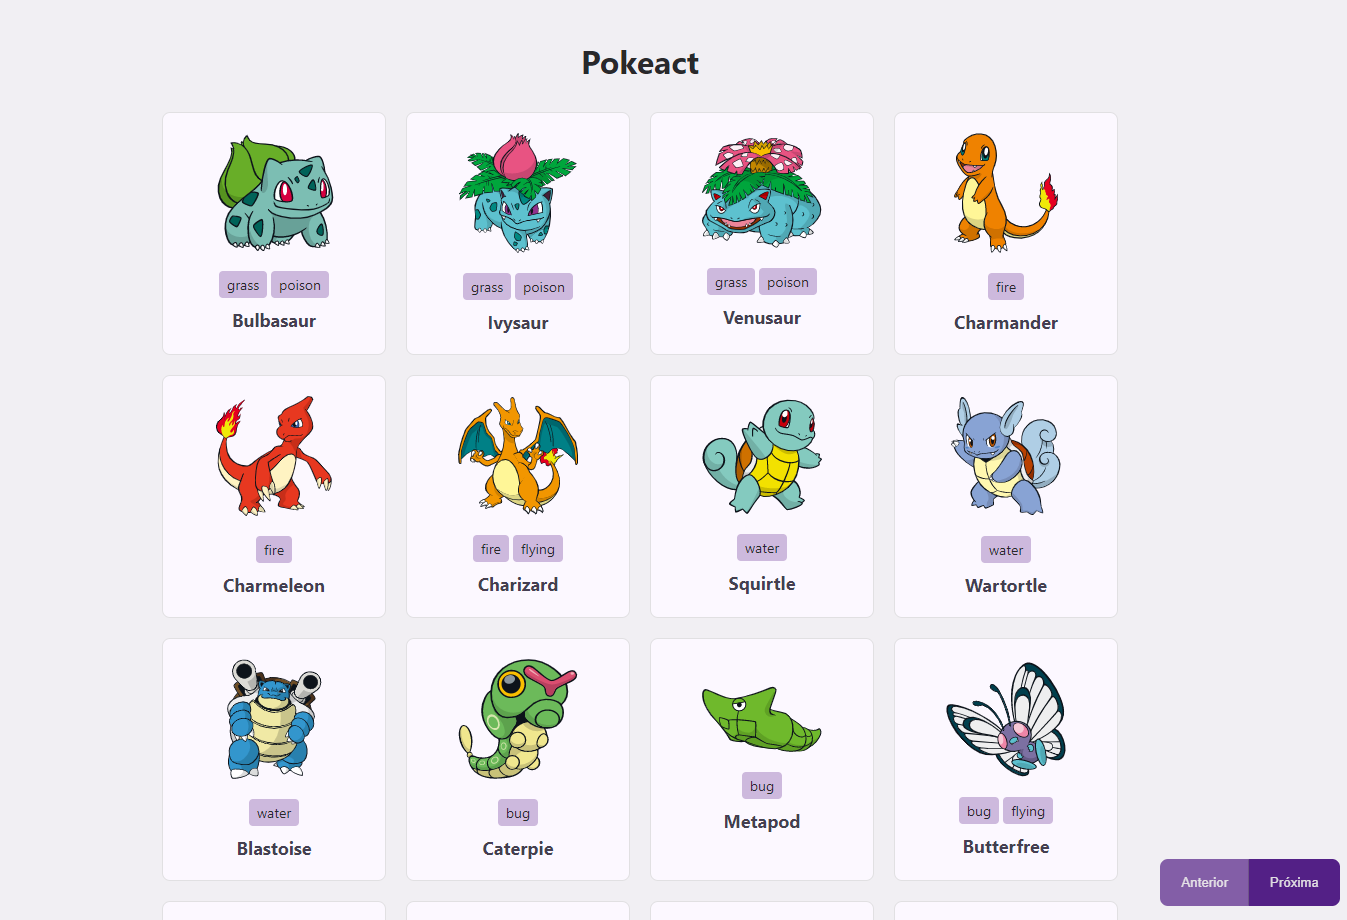
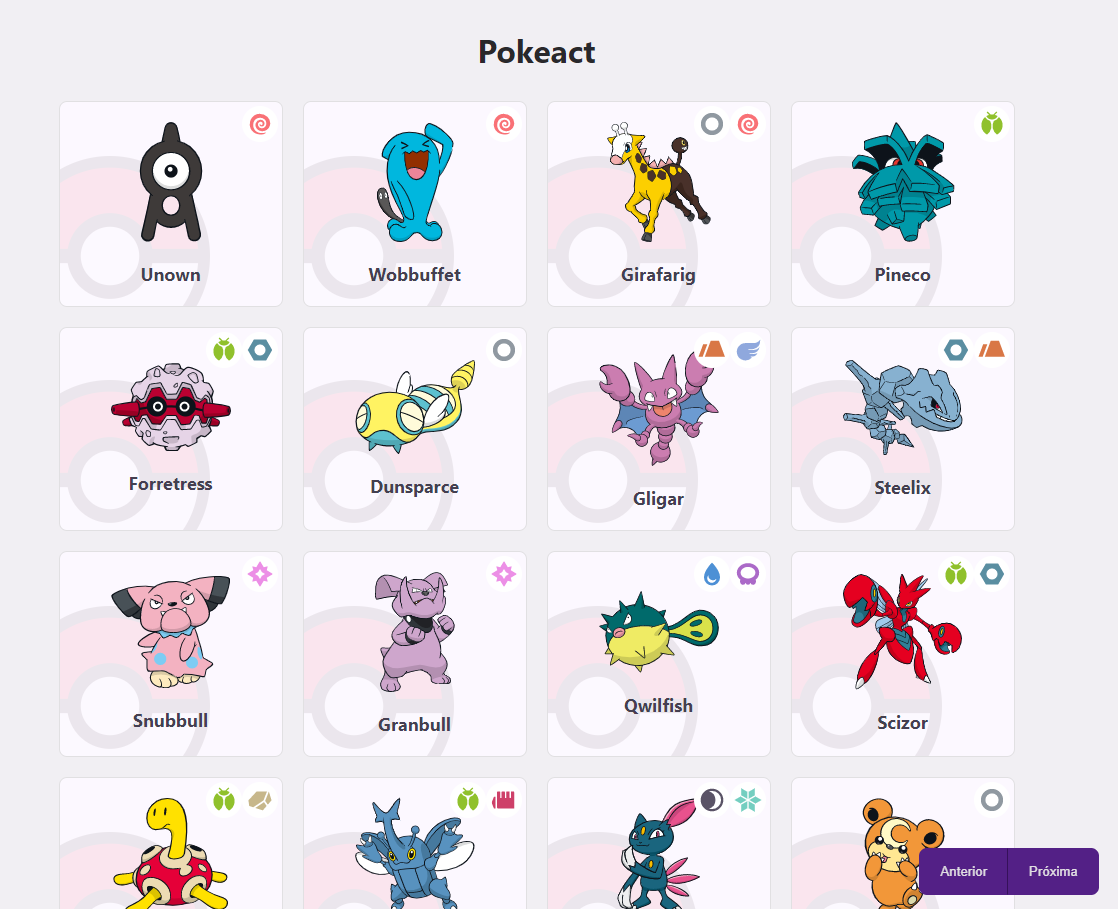
update card style

diff --git a/src/components/pokemon_card/styles.scss b/src/components/pokemon_card/styles.scss
@@ -7,6 +7,7 @@ ul.types{
 }
 
 .pokemon-card{
+    overflow: hidden;
     position: relative;
     width: 20%;
     min-width: 200px;
@@ -20,11 +21,24 @@ ul.types{
     border: 1px solid  rgb(225, 224, 226);
     background-color: rgb(252, 248, 255);
 
+    img.pokeball-bg {
+        position:absolute;
+        z-index: 0;
+        width: 200px;
+        height: 200px;
+
+        opacity: 0.08;
+
+        bottom: -50px;
+        left: -50px;
+    }
+
     img.pokemon-img {
         width:100%;
         max-width: 120px;
         max-height: 120px;
-        transition: all 100ms ease-in
+        transition: all 100ms ease-in;
+        z-index: 0;
     }
 
     &:hover {
@@ -44,10 +58,9 @@ ul.types{
         align-items:center;
         width: 100%;
         margin-top: 20px;
+        z-index: 1;
         
-       
         .name {
-            margin-top: 10px;
             font: 18px 'Segoe UI', sans-serif;
             text-transform: capitalize;
             font-weight: bold; 

diff --git a/src/components/pokemon_card/index.tsx b/src/components/pokemon_card/index.tsx
@@ -1,5 +1,6 @@
 import PokemonTypes from '../pokemon_type';
 import './styles.scss';
+  
 
 type PokemonType = {
     slot: number;
@@ -23,8 +24,13 @@ type PokemonCardProps = {
 const pokemon_front_img = 'https://raw.githubusercontent.com/PokeAPI/sprites/master/sprites/pokemon/other/dream-world/'
 
 function PokemonCard({pokemon}: PokemonCardProps) {
+
+  const bg = require('../../assets/pokemon/pokeball.svg')
+
   return (
-    <div className="pokemon-card">
+    <div className="pokemon-card" >
+  
+        <img className="pokeball-bg" src={bg} />
 
         <img className="pokemon-img" src={`${pokemon_front_img}${pokemon.id}.svg`} />
         

diff --git a/src/components/pokemon_type/styles.scss b/src/components/pokemon_type/styles.scss
@@ -6,6 +6,7 @@ img.pokemon-type-icon {
     border-radius: 24px;
     background-color: rgb(255, 255, 255);
     
+    z-index: 3;
     &:hover {
         border: 1px solid  rgb(163, 121, 206);
         cursor: pointer;
